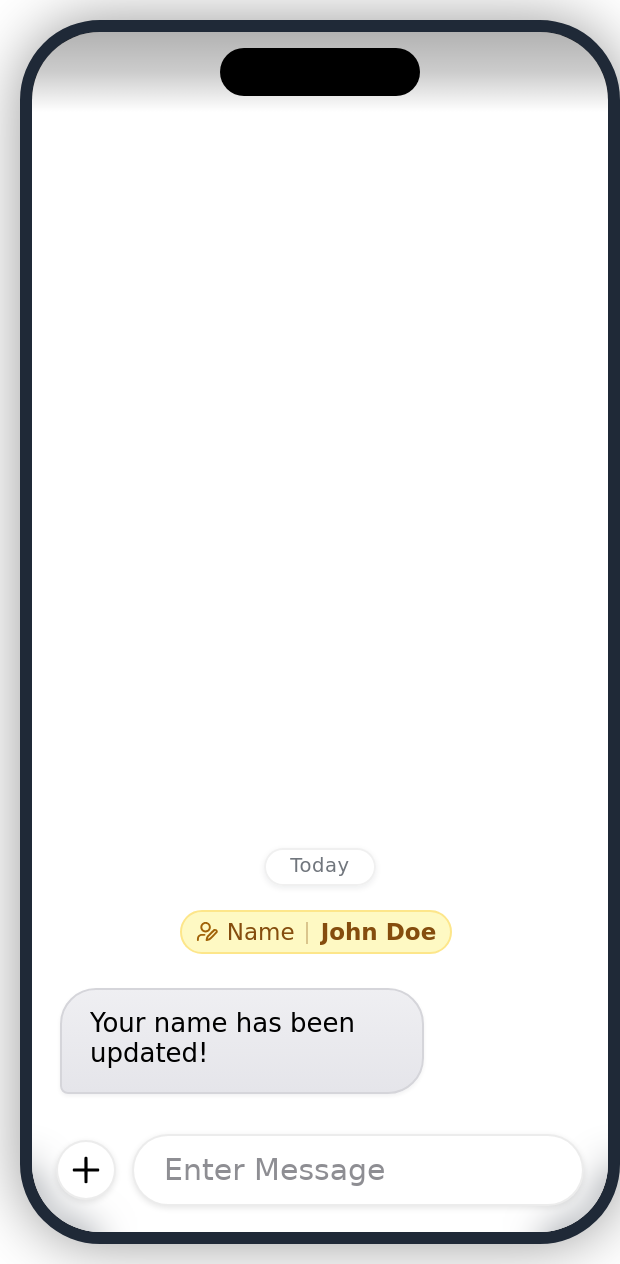
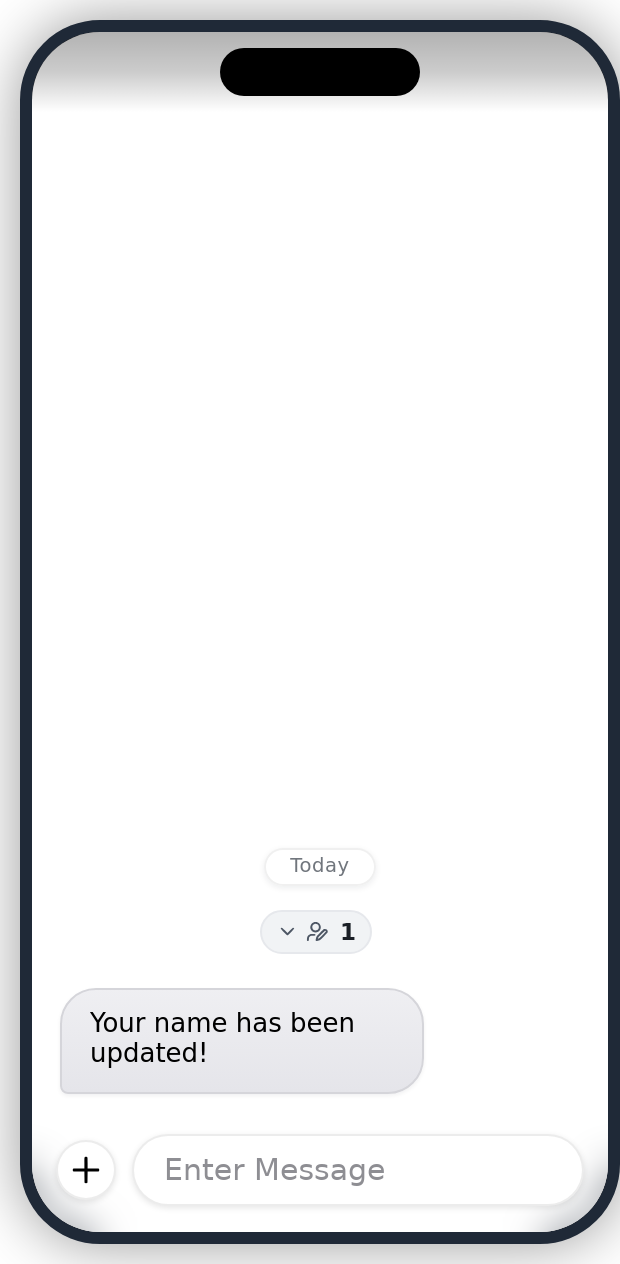
Condense single informational events the same as runs

Changed region(s): [[0.2758, 0.7097, 0.7355, 0.7714]]

diff --git a/test/temba-simulator.test.ts b/test/temba-simulator.test.ts
@@ -1053,6 +1053,21 @@ describe('temba-simulator', () => {
     expect(chat).to.exist;
     await chat.updateComplete;
 
+    // the webhook event starts collapsed behind a summary pill —
+    // expand it to get at the details button
+    await waitForCondition(
+      () =>
+        !!chat.shadowRoot?.querySelector('temba-label[title="Show details"]'),
+      40,
+      50
+    );
+    (
+      chat.shadowRoot.querySelector(
+        'temba-label[title="Show details"]'
+      ) as HTMLElement
+    ).click();
+    await chat.updateComplete;
+
     await waitForCondition(
       () => !!chat.shadowRoot?.querySelector('[data-webhook-details]'),
       40,
@@ -1175,6 +1190,21 @@ describe('temba-simulator', () => {
 
     const chat = simulator.shadowRoot.querySelector('temba-chat') as any;
     expect(chat).to.exist;
+    await chat.updateComplete;
+
+    // the webhook event starts collapsed behind a summary pill —
+    // expand it to get at the details button
+    await waitForCondition(
+      () =>
+        !!chat.shadowRoot?.querySelector('temba-label[title="Show details"]'),
+      40,
+      50
+    );
+    (
+      chat.shadowRoot.querySelector(
+        'temba-label[title="Show details"]'
+      ) as HTMLElement
+    ).click();
     await chat.updateComplete;
 
     await waitForCondition(

diff --git a/test/temba-contact-chat.test.ts b/test/temba-contact-chat.test.ts
@@ -265,9 +265,17 @@ describe('temba-contact-chat', () => {
       contact: 'tooltip-dude'
     });
 
+    // even a single informational event starts collapsed behind a
+    // summary pill — expand it to get at the detailed pill
+    const inner = chat.shadowRoot.querySelector('temba-chat') as any;
+    const summary = inner.shadowRoot.querySelector(
+      'temba-label[title="Show details"]'
+    ) as HTMLElement;
+    summary.click();
+    await inner.updateComplete;
+
     // each inline event is wrapped in a temba-tip carrying the rich
     // tooltip content; hovering past the show delay pops it
-    const inner = chat.shadowRoot.querySelector('temba-chat') as any;
     const tip = inner.shadowRoot.querySelector('temba-tip') as any;
     expect(tip).to.not.equal(null);
 

diff --git a/src/display/Chat.ts b/src/display/Chat.ts
@@ -1785,9 +1785,10 @@ export class Chat extends RapidElement {
             chunks,
             (chunk) => chunk.ids[0],
             (chunk) => {
-              if (chunk.condensed && chunk.ids.length > 1) {
-                // runs of informational events collapse behind a single
-                // summary pill until expanded
+              if (chunk.condensed) {
+                // condensable events collapse behind a single summary
+                // pill until expanded — even a run of one, so single
+                // events behave the same as longer runs
                 const chunkKey = chunk.ids[0];
                 if (!this.expandedEventChunks.has(chunkKey)) {
                   const events = chunk.ids.map((id) => this.msgMap.get(id));
